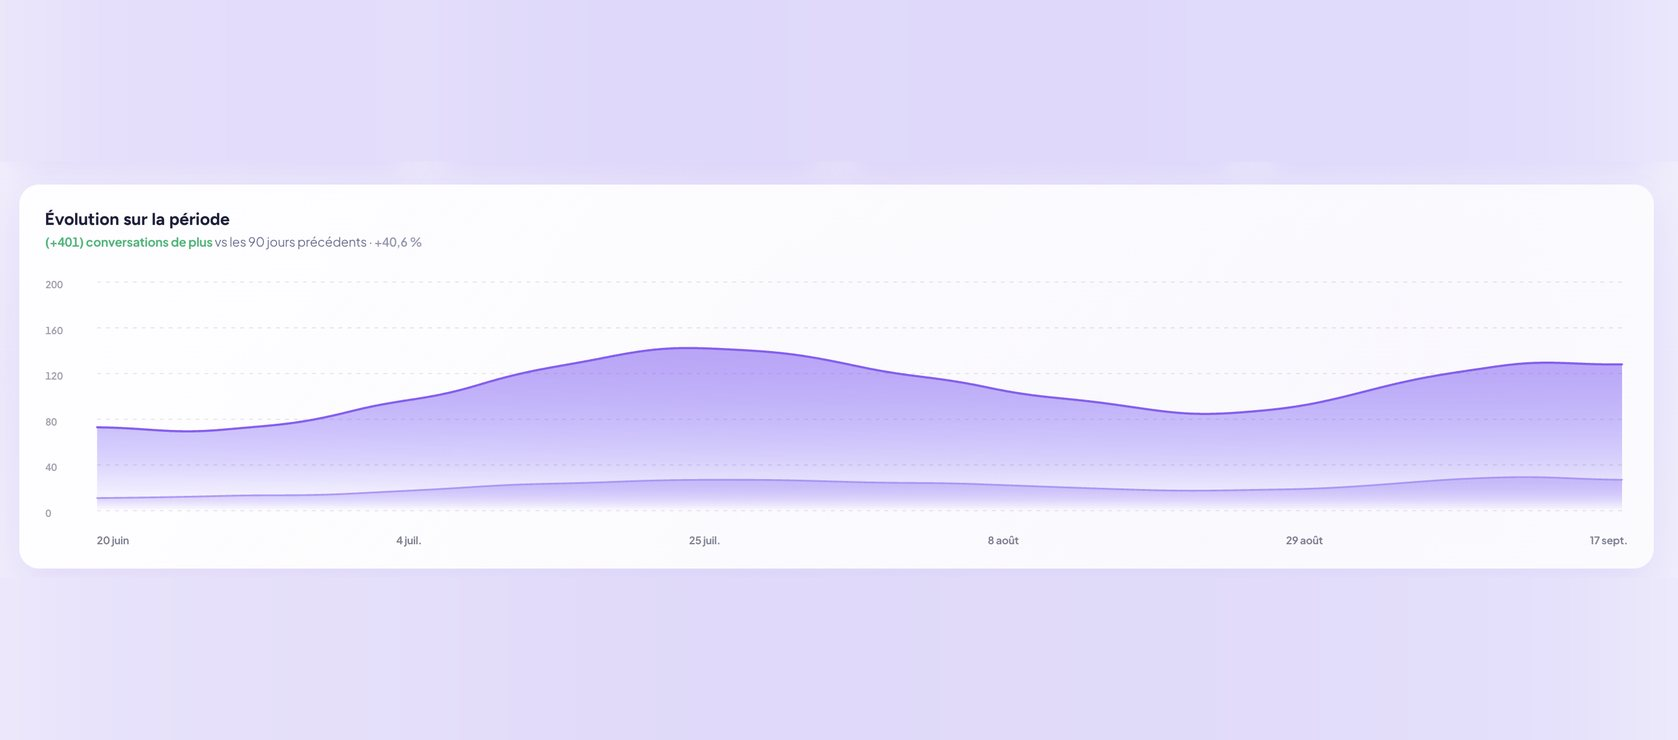
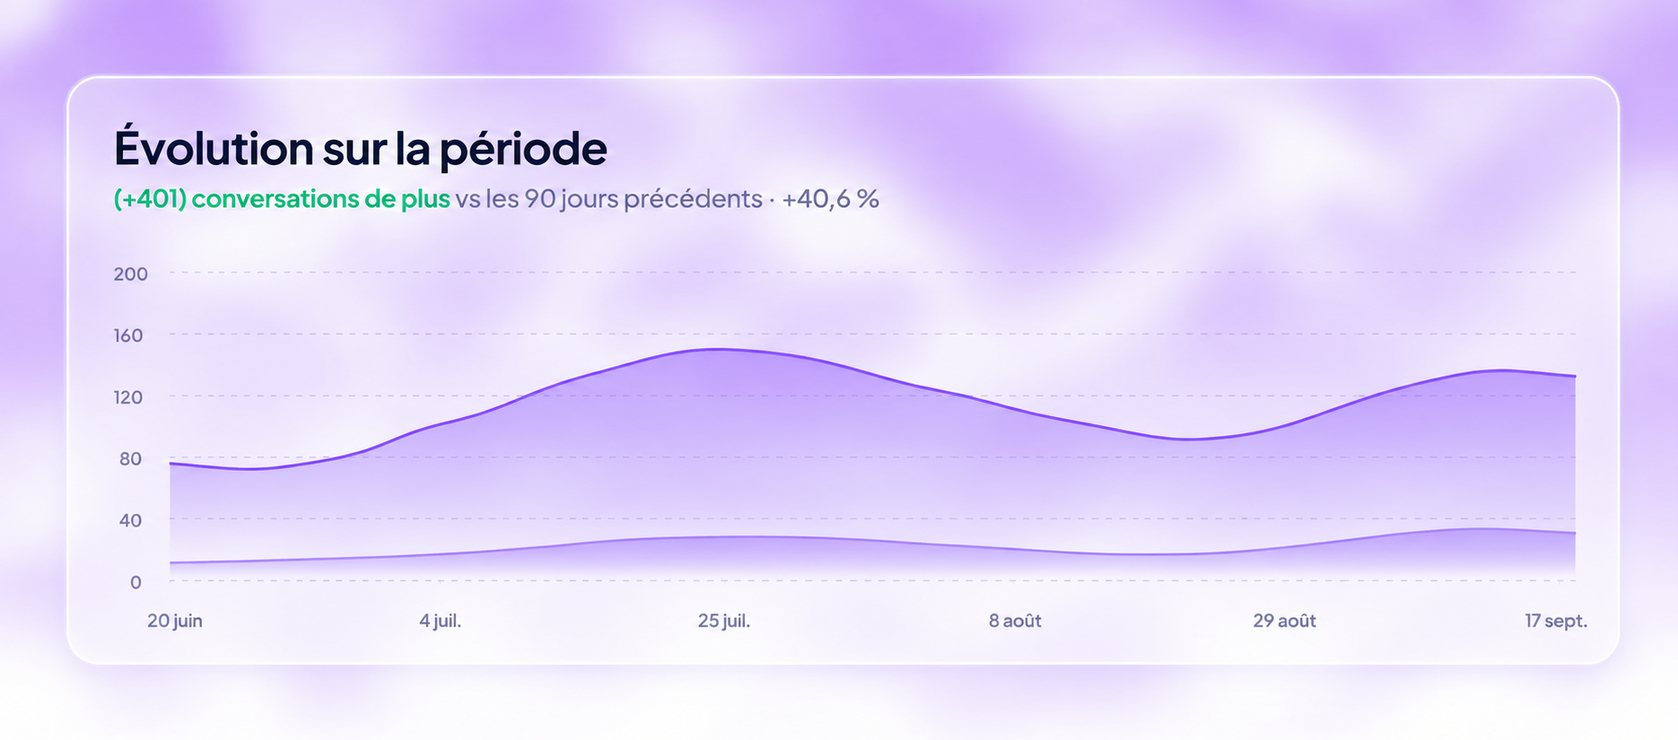
FAQ RGPD corrigee, section Installation retiree sur telephone
RGPD : la case de consentement n'existe plus dans le widget (verifie sur
le widget en ligne, plus aucun element de consentement dans son code).
Les cinq passages qui la decrivaient sont corriges, textes visibles et
donnees structurees JSON-LD :
- index.html : la phrase de la FAQ perd la mention, le reste est intact.
- chatbot-ia-rgpd.html : l'affirmation sur le widget disparait ; les deux
  passages qui portaient un conseil sont reecrits plutot que supprimes,
  sans quoi le paragraphe restait bancal.
- combien-coute-un-chatbot-ia.html : la liste d'arguments s'arrete a l'IP.

Telephone : la section Installation (#etapes) n'est plus affichee sous
992 px. Elle occupait un ecran et demi entre les cartes produit et les
avis. La page passe de 9 219 a 8 200 px, les avis remontent de 4 506 a
3 254 px et les tarifs de 5 125 a 3 873. La section reste dans le HTML et
entiere sur ordinateur. Les cinq liens qui pointaient vers elle sont
neutralises dans la meme regle : une cible masquee est mesuree a 0, le
clic renvoyait donc en haut de page. Les deux titres de cartes concernes
gardent leur texte, seul leur lien est desactive.

Hero : les deux icones flottantes mordaient sur le titre (32 px a droite
sur toutes les largeurs, 25 px a gauche vers 1280). Elles sont ecartees
sur la marge de page ; entre 1200 et 1399 px, ou cette marge manque,
celle de droite remonte le long de la premiere ligne. Ecart mesure a six
largeurs : 10 a 45 px, aucune icone coupee par le bord de l'ecran.
[…]

diff --git a/chatbot-ia-rgpd.html b/chatbot-ia-rgpd.html
@@ -101,9 +101,8 @@
             <h3>4. Le consentement est-il géré proprement ?</h3>
             <p>
                 Selon ce que fait votre chatbot (simple réponses aux questions, ou collecte active de coordonnées à des fins
-                commerciales), un recueil de consentement peut être nécessaire. Vérifiez que l'éditeur propose une case de
-                consentement activable devant le chat — chez Haria, elle s'active en un clic depuis les réglages — et que
-                votre bandeau cookies existant couvre bien le script du widget.
+                commerciales), un recueil de consentement peut être nécessaire. Vérifiez comment l'éditeur recueille et trace ce
+                consentement, et que votre bandeau cookies existant couvre bien le script du widget.
             </p>
 
             <h3>5. Combien de temps les conversations sont-elles conservées ?</h3>
@@ -132,7 +131,7 @@
             <p>
                 Haria est édité par une société française et les données sont <strong>hébergées en France</strong>, donc dans
                 l'Union européenne. Elles ne sont jamais revendues. L'adresse IP des visiteurs n'est jamais stockée (le pays
-                est déduit, puis l'IP est jetée). La case de consentement du widget s'active en un clic. Les conversations
+                est déduit, puis l'IP est jetée). Les conversations
                 sont conservées 12 mois au maximum. Et les CGV incluent l'annexe de traitement des données prévue par
                 l'article 28 du RGPD — le document que votre DPO ou votre avocat vous demandera.
             </p>
@@ -161,8 +160,8 @@
             <p>
                 Si le chatbot se contente de répondre aux visiteurs sans déposer de traceurs, il n'exige pas de consentement
                 « cookies ». Mais il traite des données personnelles (messages, coordonnées), qui relèvent du RGPD au sens
-                large : information des personnes et base légale restent nécessaires. Une case de consentement dans le
-                widget, comme celle de Haria, simplifie cette information.
+                large : information des personnes et base légale restent nécessaires. Une information claire au moment où le
+                visiteur laisse ses coordonnées, avec un lien vers votre politique de confidentialité, y suffit.
             </p>
 
             <h3>Où Haria héberge-t-il les conversations ?</h3>
@@ -240,7 +239,7 @@
                 "name": "Faut-il un bandeau cookies pour un chatbot ?",
                 "acceptedAnswer": {
                     "@type": "Answer",
-                    "text": "Si le chatbot ne dépose pas de traceurs, pas de consentement cookies. Mais il traite des données personnelles (messages, coordonnées) : information des personnes et base légale restent nécessaires. Une case de consentement dans le widget simplifie cette information."
+                    "text": "Si le chatbot ne dépose pas de traceurs, pas de consentement cookies. Mais il traite des données personnelles (messages, coordonnées) : information des personnes et base légale restent nécessaires. Une information claire au moment où le visiteur laisse ses coordonnées, avec un lien vers votre politique de confidentialité, y suffit."
                 }
             },
             {

diff --git a/assets/css/haria.css b/assets/css/haria.css
@@ -510,9 +510,20 @@ body { color: var(--hp-ink-soft); }
 /* ---------- Icones flottantes du hero ----------
    Le template les colle hors ecran (left -6% / right -11%) : elles sortent
    coupees des deux cotes du titre. On les remet entierement visibles,
-   le long des marges du conteneur. */
-.hero-1 .hero-content .shape-1 { left: 4px; }
-.hero-1 .hero-content .shape-2 { right: 4px; }
+   le long des marges du conteneur, et assez ecartees pour ne pas toucher
+   la derniere ligne du titre : a 4 px du conteneur, celle de droite
+   mordait de 32 px sur « 24h/24 ». Elles debordent donc du conteneur, ce
+   que la marge de page permet a partir de 1200 px, largeur en dessous de
+   laquelle le template les masque. */
+.hero-1 .hero-content .shape-1 { left: -36px; }
+.hero-1 .hero-content .shape-2 { right: -44px; }
+/* Entre 1200 et 1399 px, le titre occupe presque toute la largeur et la
+   marge de page ne permet plus d'ecarter davantage : l'icone de droite
+   remonte le long de la premiere ligne, plus courte, ou elle retrouve de
+   l'air sans sortir de l'ecran. */
+@media (min-width: 1200px) and (max-width: 1399px) {
+  .hero-1 .hero-content .shape-2 { right: -28px; top: 14%; }
+}
 
 /* ---------- Tous les boutons : l'animation des boutons de tarifs ----------
    Le template faisait sauter la fleche de droite a gauche. On garde la
@@ -1395,4 +1406,25 @@ body { color: var(--hp-ink-soft); }
 @media (max-width: 991px) {
   .service-box-items .content p,
   .how-it-items li .content p { font-size: 15px; }
+}
+
+/* =====================================================================
+   Telephone : la section Installation est retiree
+   ---------------------------------------------------------------------
+   Sur petit ecran, les trois etapes et le widget occupaient un ecran et
+   demi entre les cartes produit et les avis : la preuve client et les
+   tarifs arrivaient d'autant plus tard. La section reste servie dans le
+   HTML (elle compte donc pour l'indexation, meme si Google pondere moins
+   ce qui est masque) et reste entiere sur ordinateur.
+
+   Tout ce qui pointait vers #etapes est neutralise en meme temps, sinon
+   le clic emmenait en haut de page : la cible masquee est mesuree a 0.
+   Les deux titres de cartes concernes gardent leur texte, seul le lien
+   est desactive.
+   ===================================================================== */
+@media (max-width: 991px) {
+  #etapes { display: none; }
+  .mobile-menu-main .list-unstyled li:has(> a[href="#etapes"]),
+  .footer-widget-items .gt-list-area li:has(> a[href="#etapes"]) { display: none; }
+  .service-box-items .content .title a[href="#etapes"] { pointer-events: none; }
 }

diff --git a/index.html b/index.html
@@ -1188,7 +1188,7 @@
                                         <div class="acc-content">
                                             <div class="content">
                                                 <div class="text">
-                                                    Oui, dès l'offre gratuite. Les données sont hébergées en France, donc dans l'Union européenne, et ne sont jamais revendues. L'adresse IP des visiteurs n'est jamais stockée (le pays est déduit, puis l'IP est jetée), la case de consentement s'active en un clic et les conversations sont conservées 12 mois au maximum. Nos CGV incluent une annexe de traitement des données (article 28 du RGPD). Tout est détaillé dans notre <a href="politique-confidentialite.html">politique de confidentialité</a>.
+                                                    Oui, dès l'offre gratuite. Les données sont hébergées en France, donc dans l'Union européenne, et ne sont jamais revendues. L'adresse IP des visiteurs n'est jamais stockée (le pays est déduit, puis l'IP est jetée) et les conversations sont conservées 12 mois au maximum. Nos CGV incluent une annexe de traitement des données (article 28 du RGPD). Tout est détaillé dans notre <a href="politique-confidentialite.html">politique de confidentialité</a>.
                                                 </div>
                                             </div>
                                         </div>
@@ -1612,7 +1612,7 @@
                     "name": "Les chatbots Haria sont-ils conformes au RGPD ?",
                     "acceptedAnswer": {
                         "@type": "Answer",
-                        "text": "Oui, dès l'offre gratuite. Les données sont hébergées en France, donc dans l'Union européenne, et ne sont jamais revendues. L'adresse IP des visiteurs n'est jamais stockée (le pays est déduit, puis l'IP est jetée), la case de consentement s'active en un clic et les conversations sont conservées 12 mois au maximum. Nos CGV incluent une annexe de traitement des données (article 28 du RGPD). Tout est détaillé dans notre politique de confidentialité."
+                        "text": "Oui, dès l'offre gratuite. Les données sont hébergées en France, donc dans l'Union européenne, et ne sont jamais revendues. L'adresse IP des visiteurs n'est jamais stockée (le pays est déduit, puis l'IP est jetée) et les conversations sont conservées 12 mois au maximum. Nos CGV incluent une annexe de traitement des données (article 28 du RGPD). Tout est détaillé dans notre politique de confidentialité."
                     }
                 },
                 {

diff --git a/combien-coute-un-chatbot-ia.html b/combien-coute-un-chatbot-ia.html
@@ -209,8 +209,7 @@
             <h3>Un chatbot IA est-il conforme au RGPD ?</h3>
             <p>
                 Ça dépend de l'éditeur. Vérifiez où sont hébergées les données et comment elles sont traitées.
-                Haria héberge les données en France, ne les revend jamais, ne stocke jamais l'adresse IP des visiteurs
-                et propose une case de consentement activable.
+                Haria héberge les données en France, ne les revend jamais et ne stocke jamais l'adresse IP des visiteurs.
             </p>
 
             <p class="article-sources">
